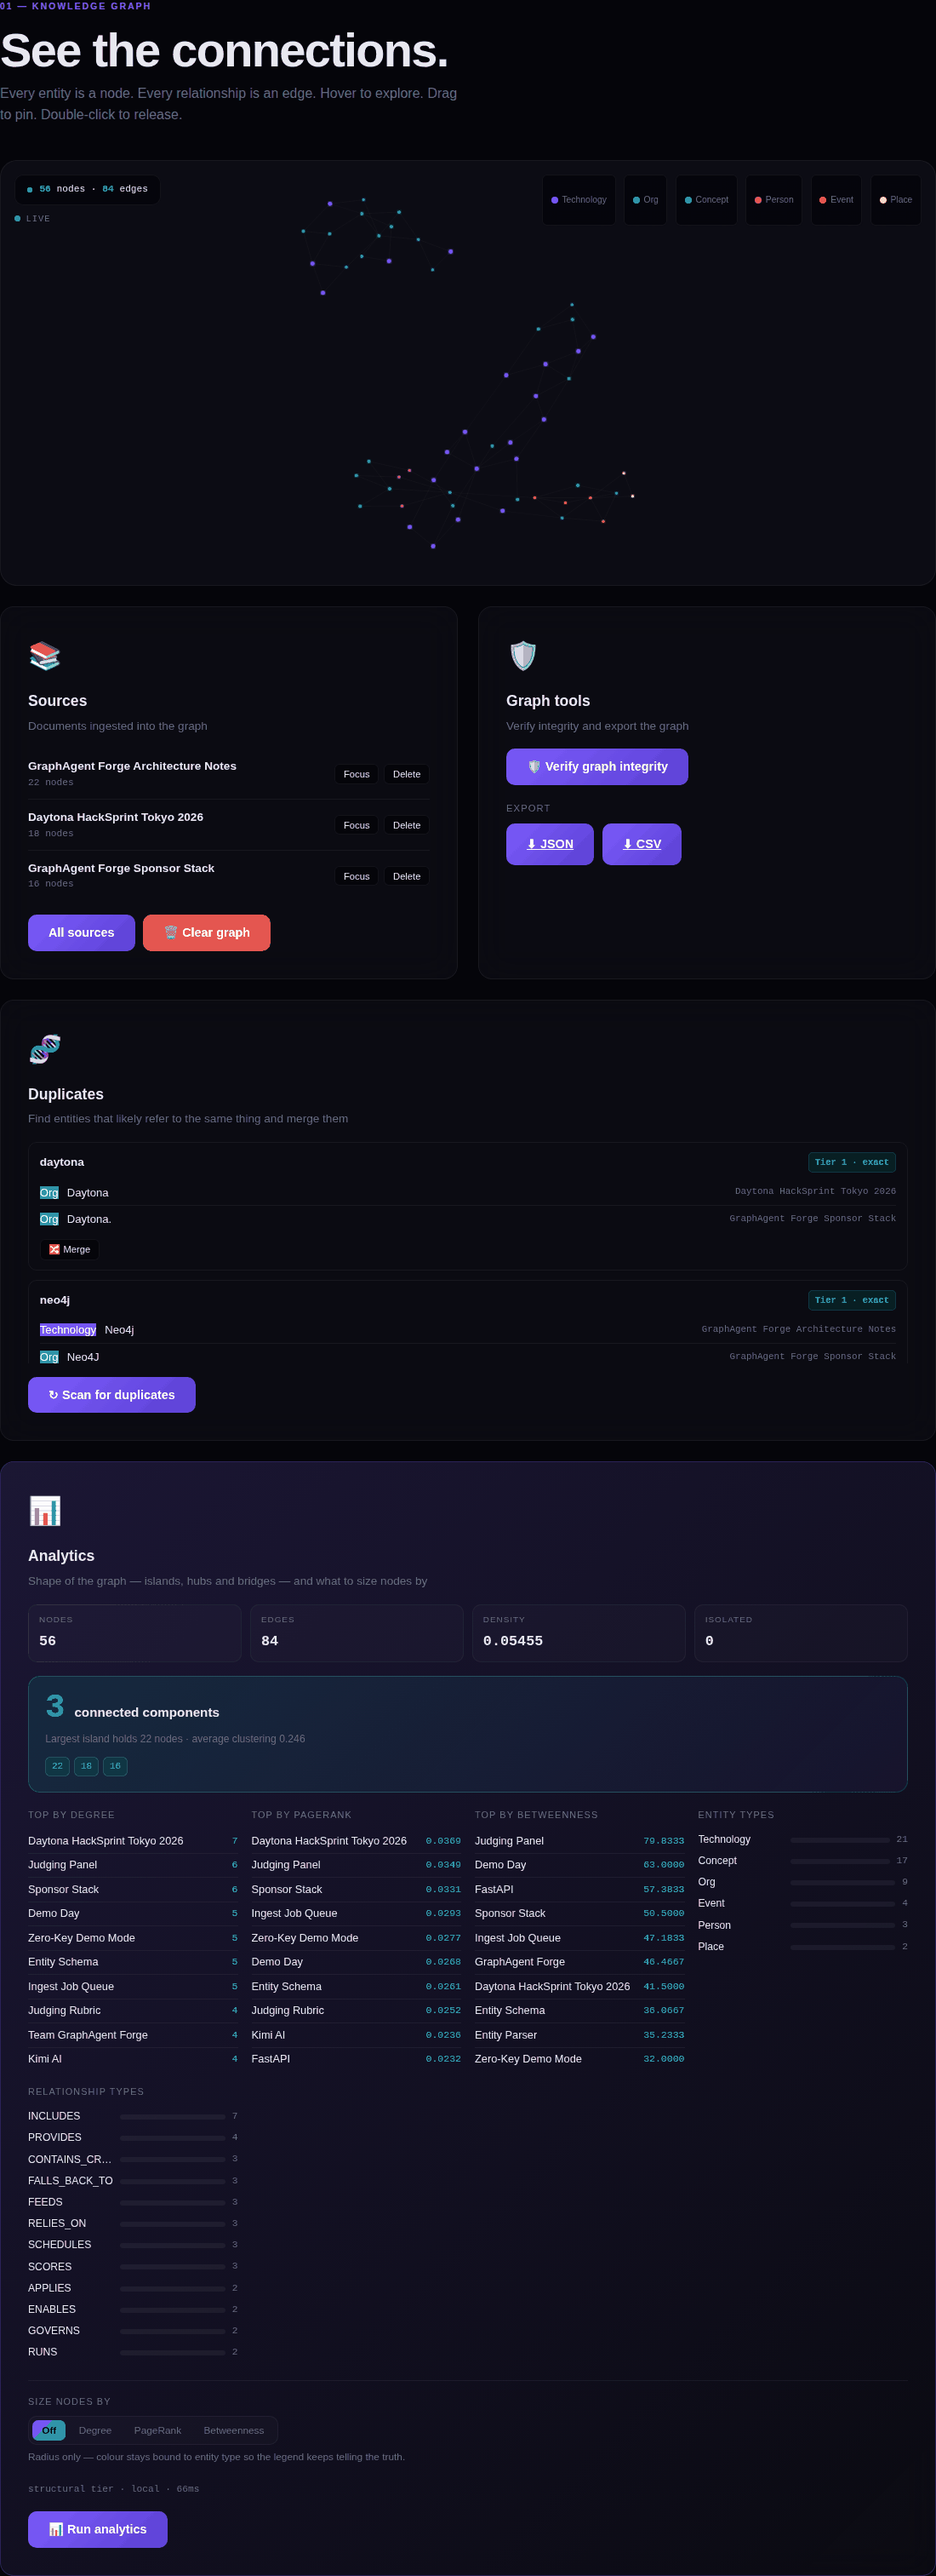
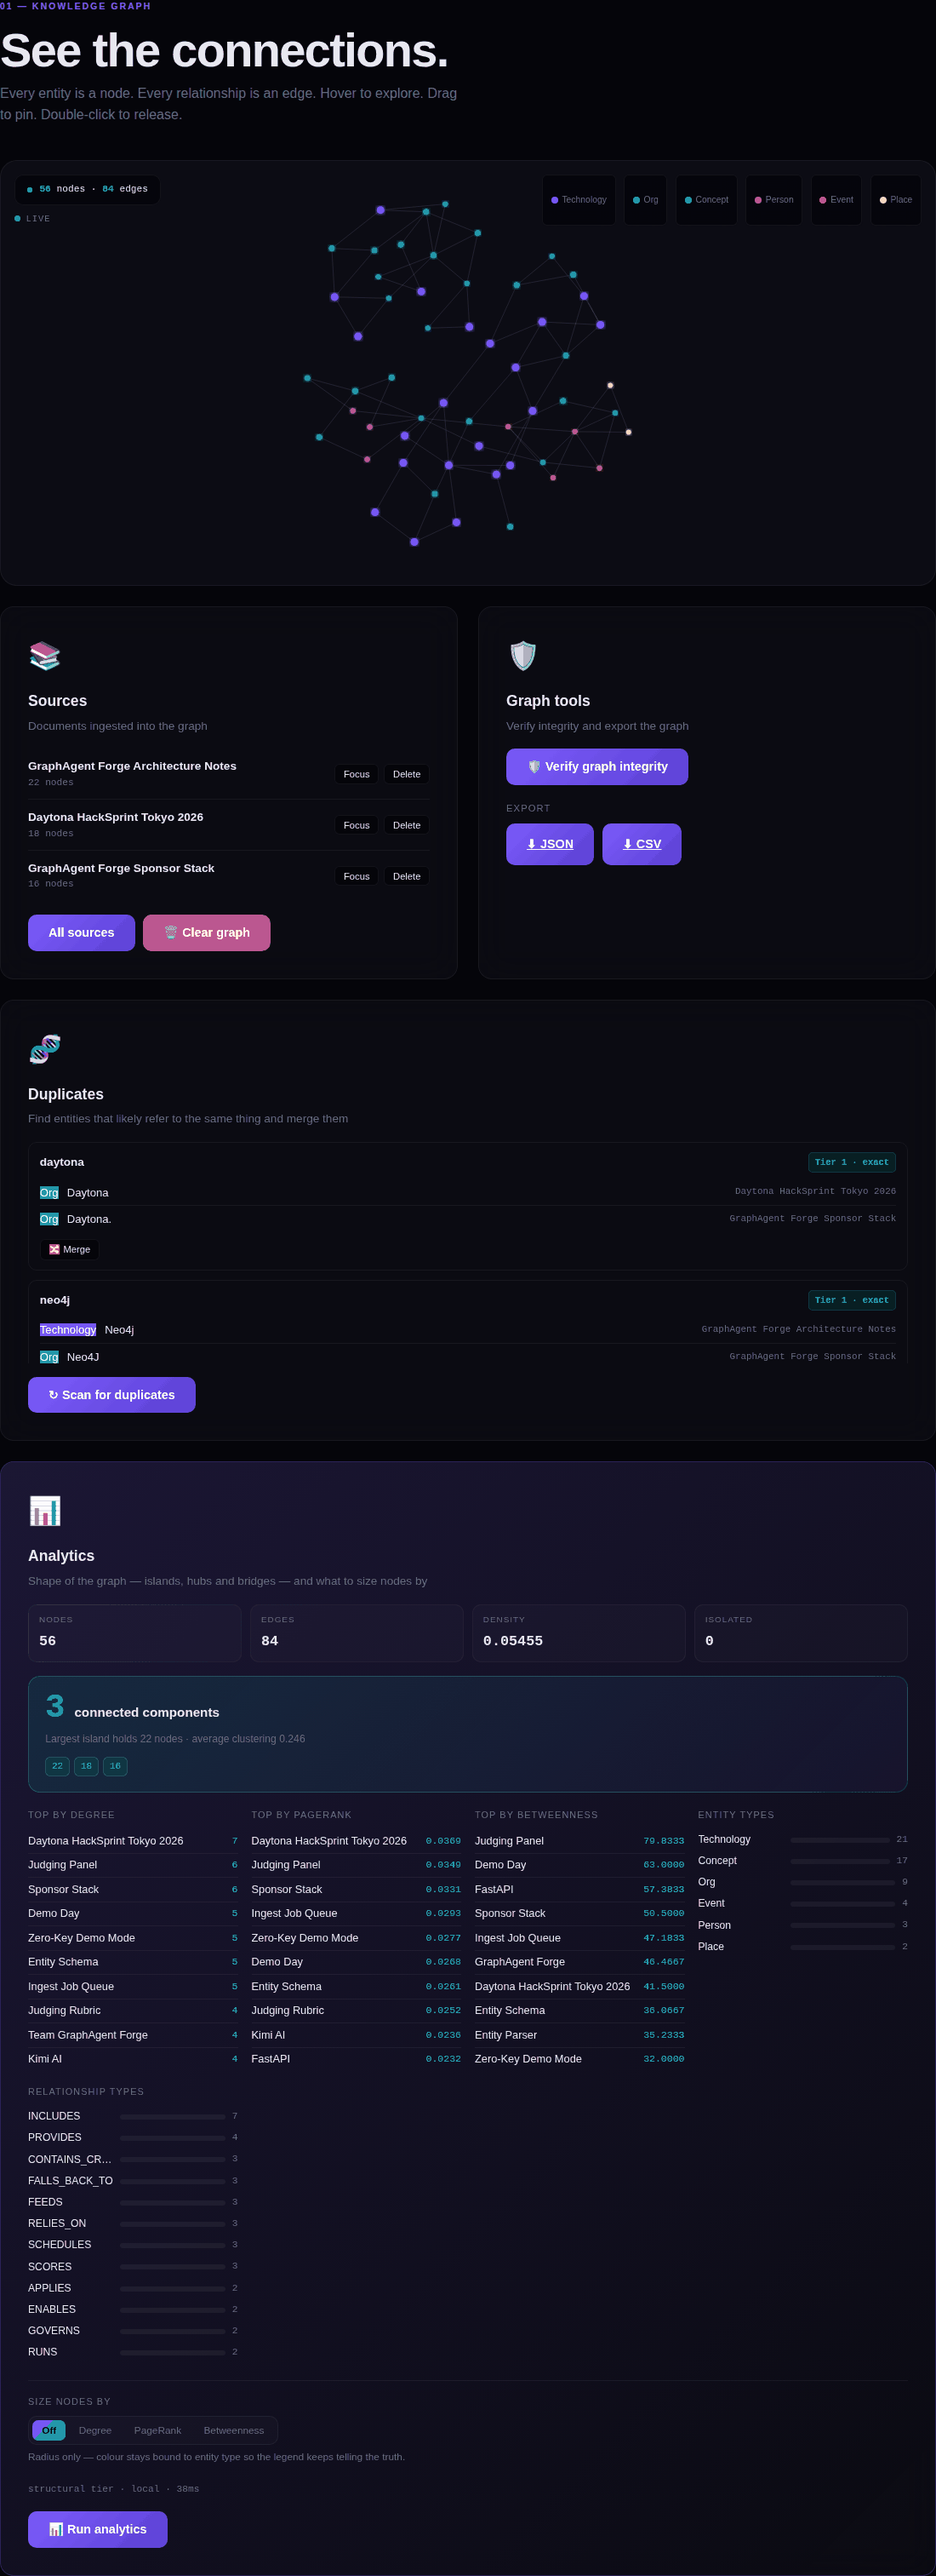
chore(capture): quantize in-script, and refresh the UI captures
The committed captures were quantized out of band last round, so running
scripts/capture_ui.py produced ~2 MB of PNGs that fail the caps in
tests/test_readme_assets.py — the documented way to regenerate the images
could not produce the images that are checked in.

Quantization now happens inside capture(), so the script's output is what
the repo commits (1.98 MB -> 428 KB, largest file 138 KB). Pillow joins
playwright as a hard requirement of the script and stays out of
requirements*.txt for the same reason: both are capture-time tools and CI
has no browser. Missing Pillow exits with an install line rather than
degrading, since silently emitting images that fail the repo's own guard
is the worse outcome. The script also reports an over-budget file itself
instead of leaving that to CI several minutes later.

Captures regenerated against a live seeded graph with no API keys. Four
of seven files are byte-identical to the previous run, which also
confirms the in-script quantization reproduces the earlier out-of-band
result exactly; the four that changed are the ones showing the graph.

The capture script's own comments claimed the fit exists because the
default view clips roughly half the nodes. That is no longer true, so
they now say what the fit is actually for: a settled layout occupies
about 416x434 of the 1098x498 panel, so the fit is framing rather than
rescue.

Changed region(s): [[0.1545, 0.3418, 0.3091, 0.3729], [0.4636, 0.1554, 0.5564, 0.1864]]

diff --git a/scripts/capture_ui.py b/scripts/capture_ui.py
@@ -32,11 +32,13 @@ script runs. Playwright's ``animations="disabled"`` only freezes CSS animations 
 it does not touch ``requestAnimationFrame`` loops — so the D3 simulation is
 additionally waited to ``alpha() < 0.005`` and then explicitly stopped.
 
-Once stopped, the graph is fitted to its panel (see ``FIT_GRAPH_JS``): the seed
-fixture is three disconnected components that repel each other off-canvas, so the
-app's default view clips roughly half the nodes. The fit applies the same zoom
-transform a user would reach for with the page's existing zoom control, and the
-run aborts rather than emitting a capture with any node still outside the frame.
+Once stopped, the graph is fitted to its panel (see ``FIT_GRAPH_JS``). The app's
+default view now holds all 56 seed nodes on its own — ``GRAPH_CENTER_STRENGTH``
+bounds how far the three disconnected components drift — so the fit is framing
+rather than rescue: it zooms the layout up to fill the panel instead of leaving it
+adrift in the middle. It applies the same transform a user would reach for with
+the page's existing zoom control, and the run aborts rather than emitting a
+capture with any node outside the frame.
 
 Measured over two consecutive runs, ``graph``, ``duplicates``, ``query`` and
 ``path`` came out **pixel-identical**. Two captures carry a little residual
@@ -65,6 +67,7 @@ run never leaves a truncated file behind.
 from __future__ import annotations
 
 import argparse
+import io
 import os
 import sys
 from pathlib import Path
@@ -81,10 +84,25 @@ except ImportError:
     )
     sys.exit(2)
 
+# Pillow is required for the same reason playwright is: without the palette pass
+# below, a raw capture of the graph panel lands around 700 KB and the whole set
+# near 2 MB, which blows the caps tests/test_readme_assets.py enforces. Emitting
+# images that fail the repo's own guard is worse than refusing to run, so this
+# fails fast with an install line rather than degrading.
+try:
+    from PIL import Image
+except ImportError:
+    print("Pillow not installed: pip install Pillow", file=sys.stderr)
+    sys.exit(2)
+
 EXIT_OK = 0
 EXIT_BAD_ARGS = 1
 EXIT_NO_PLAYWRIGHT = 2
 EXIT_PRECONDITION = 3
+
+#: Per-image ceiling, kept below the cap in tests/test_readme_assets.py so the
+#: script reports a problem before CI does.
+MAX_IMAGE_BYTES = 400 * 1024
 
 #: Nodes in seed/graph.json. Both the hero counter and the graph badge are waited
 #: on against this, which doubles as proof the 800ms animNum tween has settled.
@@ -143,11 +161,12 @@ REVEAL_ALL_JS = "document.querySelectorAll('.reveal').forEach(e => e.classList.a
 
 #: Fit the settled force graph to its viewport.
 #:
-#: The seed fixture is three disconnected components. `forceManyBody(-80)` pushes
-#: them apart and `forceCenter` only pins the *centroid*, so the islands drift
-#: off-canvas: measured on the 56-node fixture, only 23 nodes land inside the
-#: 1098x498 panel and the rest are clipped. The page's own zoom control fixes this
-#: interactively; this is the same transform applied programmatically.
+#: The seed fixture is three disconnected components that `forceManyBody(-80)`
+#: pushes apart. The page's `forceX`/`forceY` pull keeps them inside the 1098x498
+#: panel (before it, only 23 of 56 nodes landed in frame), but a settled layout
+#: still occupies roughly 416x434 of that panel, so it reads small and
+#: off-balance. Scaling it up to fill the frame is what this does — the same
+#: transform the page's own zoom control applies interactively.
 #:
 #: Reachability: `svgEl`, `gLabels` and `currentZoomK` are top-level `let`s, i.e.
 #: global-lexical bindings that a bare identifier resolves. `zoomBehavior` and the
@@ -333,6 +352,24 @@ def prepare_page(page, base_url: str, timeout: int) -> dict:
     return fit
 
 
+def quantize(data: bytes) -> bytes:
+    """Shrink a screenshot to a 256-colour palette PNG.
+
+    The UI is flat dark surfaces, a handful of accent colours and text — well
+    under 256 distinct colours everywhere except the hero's particle gradients
+    and the graph's glow filter, where the loss is imperceptible at these sizes.
+    Typically a 4-5x saving, which is the difference between the capture set
+    fitting the README budget and not.
+    """
+    with Image.open(io.BytesIO(data)) as img:
+        palette = img.convert("RGB").quantize(colors=256, method=Image.Quantize.MEDIANCUT)
+        buf = io.BytesIO()
+        palette.save(buf, format="PNG", optimize=True)
+    shrunk = buf.getvalue()
+    # A capture that somehow compresses worse keeps the original.
+    return shrunk if len(shrunk) < len(data) else data
+
+
 def capture(page, shot: dict, out_dir: Path, timeout: int) -> Path:
     """Run one shot's pre-actions and write `<out_dir>/<key>.png` atomically."""
     key = shot["key"]
@@ -370,7 +407,7 @@ def capture(page, shot: dict, out_dir: Path, timeout: int) -> Path:
     # truncated PNG that a later agent would embed.
     final = out_dir / f"{key}.png"
     staging = out_dir / f".{key}.png.part"
-    staging.write_bytes(data)
+    staging.write_bytes(quantize(data))
     os.replace(staging, final)
     return final
 
@@ -453,9 +490,24 @@ def main(argv: list[str] | None = None) -> int:
             f"graph fit: scale {fit['k']:.3f} · all {fit['total']} nodes inside "
             f"{fit['width']}x{fit['height']}"
         )
+    oversize = []
     for path in written:
-        print(f"{path}  ({path.stat().st_size / 1024:.0f} KB)")
+        size = path.stat().st_size
+        flag = ""
+        if size > MAX_IMAGE_BYTES:
+            oversize.append(path.name)
+            flag = "  ← OVER BUDGET"
+        print(f"{path}  ({size / 1024:.0f} KB){flag}")
     print(f"{len(written)} capture(s) written to {out_dir}")
+    if oversize:
+        # Say so here rather than letting tests/test_readme_assets.py be the
+        # first thing that mentions it, several minutes later in CI.
+        print(
+            f"{len(oversize)} capture(s) over the {MAX_IMAGE_BYTES // 1024} KB "
+            f"per-image budget: {', '.join(oversize)}",
+            file=sys.stderr,
+        )
+        return EXIT_PRECONDITION
     return EXIT_OK
 
 

diff --git a/README.md b/README.md
@@ -137,7 +137,7 @@ graphagent-forge/
 │       └── d3.v7.min.js     # D3, served locally — no CDN needed to render the graph
 ├── scripts/
 │   ├── seed_graph.py        # Loads seed/graph.json into Neo4j for demos
-│   └── capture_ui.py        # Playwright script that captures assets/ui/*.png from a live server
+│   └── capture_ui.py        # Playwright + Pillow script that captures assets/ui/*.png from a live server
 ├── seed/
 │   └── graph.json           # Sample multi-document graph fixture
 ├── assets/
